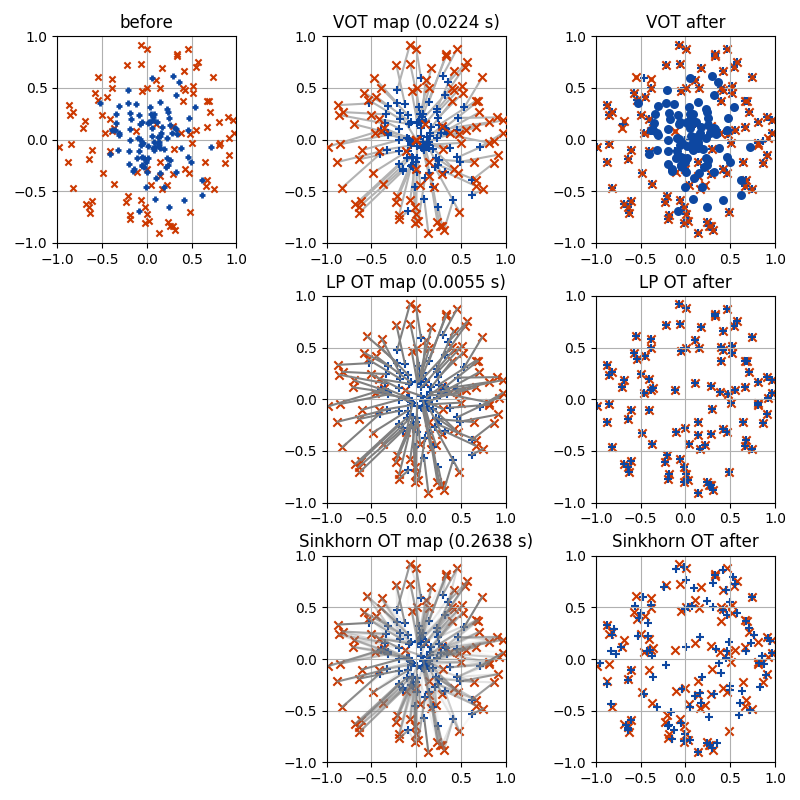
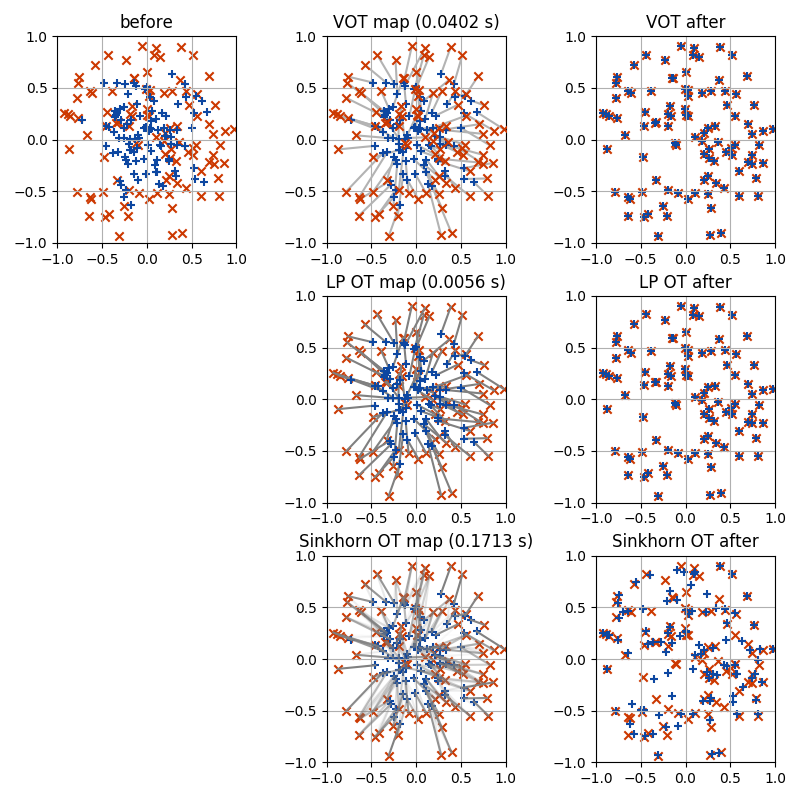
reg vot

diff --git a/demo/vsSinkhorn/vot_vs_sinkhorn.py b/demo/vsSinkhorn/vot_vs_sinkhorn.py
@@ -151,5 +151,5 @@ if plot_map:
     # ------- PLOT ------- #
     # -------------------- #
     plt.tight_layout(pad=1.0, w_pad=1.5, h_pad=0.5)
-    # plt.savefig('vot_vs_sinkhorn.png', format="png")
+    plt.savefig('vot_vs_sinkhorn.png', format="png")
     plt.show()

diff --git a/README.md b/README.md
@@ -10,7 +10,7 @@ In practice, we consider a collection of dense Dirac samples as an approximation
 * This program implements gradient descent instead of Newton's method to avoid computing
  convex hulls so that it can handle high-dimensional data. 
 * The picture below shows 10 random nested ellipses averaged according to the Euclidean distance (left) and the Wasserstein distance (right) as computed by our method. Middle is the Euclidean sum after re-centered. Our method also preserves the topology (rainbow colors) of the ellipses. 
-* More examples can be found in [demo/](demo/README.md).
+* More examples can be found in [demo/](demo/).
 
 <img src="demo/pics/barycenter.png" width="50%">
 
